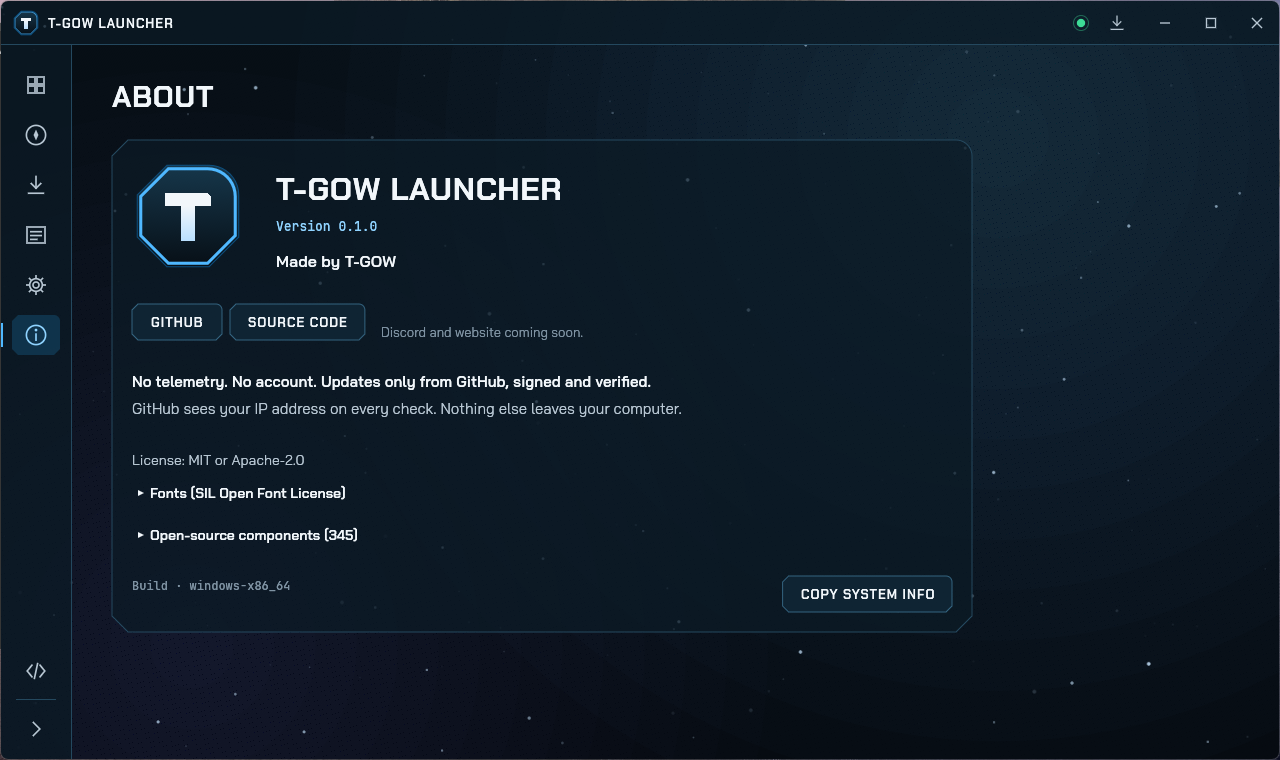
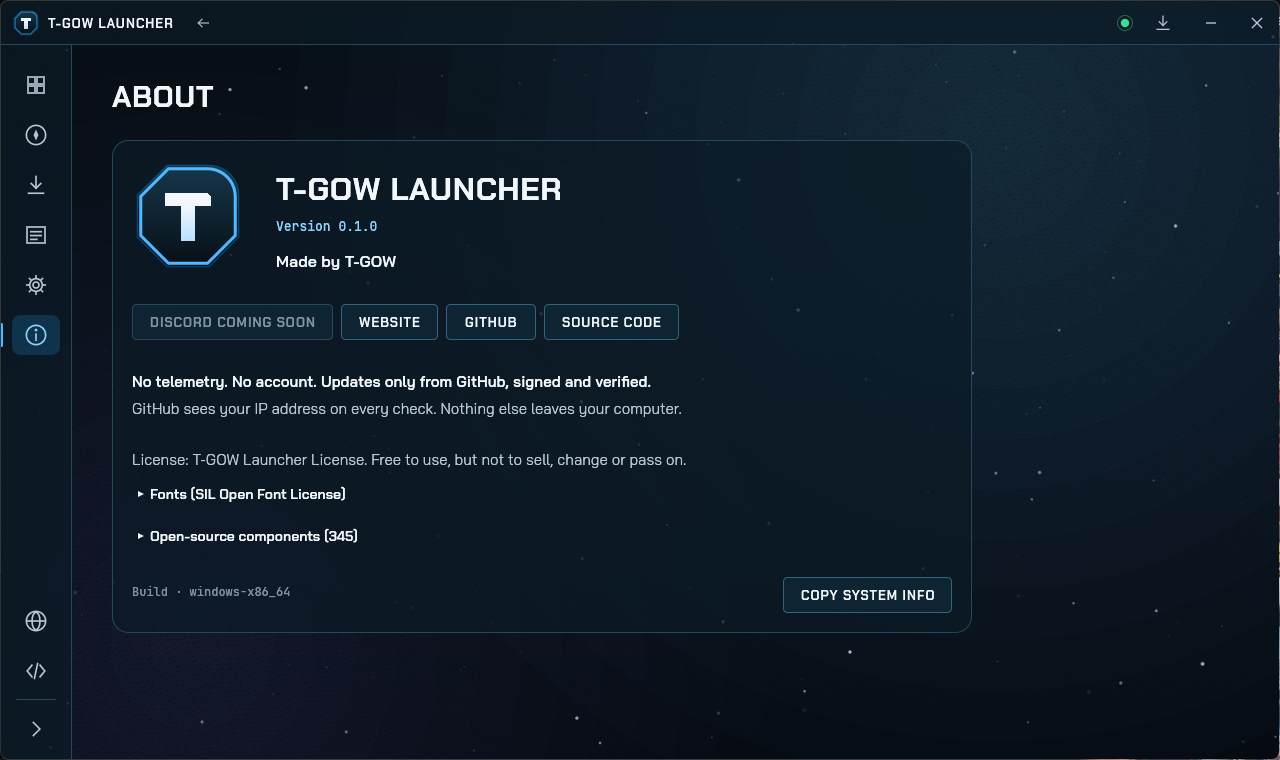
Show the new interface in the readme and the changelog
Fresh screenshots of the library, the loading window, the context menu, the status popup, the app page, the list, the settings, the news and the about page replace the old ones.

diff --git a/README.md b/README.md
@@ -29,7 +29,7 @@
 <br>
 
 <p align="center">
-  <img src="docs/images/tgow-launcher-library.png" alt="T-GOW Launcher library: cards for Ferrovox, marked as installed, and NeoCross, marked as having no signed release, with search, filters for all, installed and updates, sorting and a grid or list switch" width="100%">
+  <img src="docs/images/tgow-launcher-library.png" alt="T-GOW Launcher library: a card for Ferrovox with a screenshot banner, its logo, version 1.0.2 and the state installed, with search, filters for all, installed and updates, sorting and a grid or list switch" width="100%">
   <br>
   <sub>The library with every T-GOW project, its version and its state: installed, update available, signed or not.</sub>
 </p>
@@ -81,22 +81,42 @@ Every screenshot is the real app, captured from a build of this repository.
 <table>
   <tr>
     <td width="50%" valign="top">
-      <img src="docs/images/tgow-launcher-app.png" alt="The Ferrovox page: name, tagline, chips for installed, v1.0.2, Windows x64, Inno Setup and 6.3 MB, Launch and View on GitHub buttons, detected system Windows 11 x64, package details, Show in folder and Uninstall, and the update mode for this app" width="100%">
+      <img src="docs/images/tgow-launcher-app.png" alt="The Ferrovox page: logo and name, the tagline, chips for installed, v1.0.2, Windows x64, Inno Setup and 6.3 MB, a Launch button with a menu next to it, and below the details with the detected system, the package and a screenshot of Ferrovox" width="100%">
       <br>
-      <sub>An app page with the detected system, the chosen package and its update mode.</sub>
+      <sub>An app page with logo, install state, the package picked for your system and a screenshot.</sub>
       <h3>One page per app</h3>
-      Each app gets a page with its tagline, release notes, the package picked for your system and its size. Launch, update, show the folder or uninstall from here.
+      Each app gets a page with its logo, tagline, release notes, the package picked for your system and a screenshot. Launch, update, show the folder or uninstall from here or from the menu next to the main button.
       <br><br>
       Apps that were installed before the launcher existed are found through their uninstall entry, so nothing has to be installed twice.
     </td>
     <td width="50%" valign="top">
-      <img src="docs/images/tgow-launcher-welcome.png" alt="The welcome page with the launcher logo, the text Install the launcher for your user, and the buttons Install and Run without installing" width="100%">
+      <img src="docs/images/tgow-launcher-splash.png" alt="The loading window with the launcher logo, the name T-GOW LAUNCHER, the text Checking for updates and a progress bar" width="100%">
       <br>
-      <sub>First start: install for your user or run it portable.</sub>
-      <h3>Installs without asking for admin</h3>
-      On first start the launcher offers to install itself into your user profile with a Start menu entry and an uninstall entry, or to run as it is.
+      <sub>The loading window checks GitHub before the launcher opens.</sub>
+      <h3>Up to date before it opens</h3>
+      It starts with a small loading window that checks GitHub. A new launcher version is downloaded, verified and installed right there, and the launcher restarts into it.
       <br><br>
-      Apps install the same way: portable builds and archives into versioned folders, Inno Setup, NSIS and MSI silently per user, AppImage, tar.gz and Flatpak on Linux.
+      App updates install on their own in the background as soon as an app is closed.
+    </td>
+  </tr>
+  <tr>
+    <td width="50%" valign="top">
+      <img src="docs/images/tgow-launcher-menu.png" alt="A right click on the Ferrovox card opens a menu with Show details, Launch, Show in folder, View on GitHub and Uninstall" width="100%">
+      <br>
+      <sub>A right click on a card or a list row opens everything you can do with an app.</sub>
+      <h3>Everything one click away</h3>
+      Cards show the screenshot of each app as banner, with logo, name, version and install state always visible. Hovering fades the description in.
+      <br><br>
+      A right click opens details, launch or install, update, the folder, GitHub and uninstall.
+    </td>
+    <td width="50%" valign="top">
+      <img src="docs/images/tgow-launcher-status.png" alt="The status popup under the title bar: GitHub operational, catalog 1 app, T-GOW Launcher v0.1.0 up to date, last checked just now and a Check now button" width="100%">
+      <br>
+      <sub>Status and downloads open as popups right under the title bar.</sub>
+      <h3>Status and downloads at a glance</h3>
+      The status dot shows whether GitHub is reachable, how many apps are in the catalog, whether the launcher is up to date and when it last checked.
+      <br><br>
+      The downloads button shows a badge while something runs and opens ongoing, waiting and finished jobs with progress and cancel.
     </td>
   </tr>
   <tr>
@@ -110,13 +130,13 @@ Every screenshot is the real app, captured from a build of this repository.
       Several downloads run at once while installers run one after another, and an interrupted download picks up where it stopped.
     </td>
     <td width="50%" valign="top">
-      <img src="docs/images/tgow-launcher-list.png" alt="The library as a list: one row per app with icon, name, version, description and state" width="100%">
+      <img src="docs/images/tgow-launcher-list.png" alt="The library as a list: one row per app with logo, name, version, description and install state" width="100%">
       <br>
       <sub>The library as a list, sorted by name or by newest release.</sub>
       <h3>Find things fast</h3>
       Search, filter by installed apps or available updates, sort by name or newest release, and switch between grid and list.
       <br><br>
-      Ctrl+F searches, F5 checks now, Ctrl+J opens downloads and Ctrl+, the settings. Every control has a name and a focus ring for screen readers and the keyboard.
+      Ctrl+F searches, F5 checks now, Ctrl+J opens downloads, Ctrl+, the settings, and Alt+Left or the back button of the mouse goes back. Every control has a name and a focus ring for screen readers and the keyboard.
     </td>
   </tr>
   <tr>
@@ -128,11 +148,11 @@ Every screenshot is the real app, captured from a build of this repository.
       The news page lines up the latest release of every app with its notes, in German or English, depending on your language.
     </td>
     <td width="50%" valign="top">
-      <img src="docs/images/tgow-launcher-about.png" alt="The About page with the logo, version, GitHub and source code buttons, the privacy promise, the license and the lists of fonts and open-source components" width="100%">
+      <img src="docs/images/tgow-launcher-about.png" alt="The About page with the logo, version, a disabled Discord coming soon button, Website, GitHub and Source code buttons, the privacy promise, the license and the lists of fonts and open-source components" width="100%">
       <br>
-      <sub>About: version, privacy promise and every bundled open-source component.</sub>
+      <sub>About: version, links, privacy promise and every bundled open-source component.</sub>
       <h3>Nothing hidden</h3>
-      The About page lists all 345 crates the launcher is built from, with their licenses, and copies your system info for bug reports in one click.
+      The About page links the website and GitHub, lists all crates the launcher is built from with their licenses, and copies your system info for bug reports in one click.
     </td>
   </tr>
 </table>
@@ -144,7 +164,8 @@ Every screenshot is the real app, captured from a build of this repository.
 - **Installing:** per user and without administrator rights; portable builds, ZIP, tar.gz, AppImage, Inno Setup, NSIS, MSI and Flatpak; archives are checked for paths that leave the target folder.
 - **Updates:** automatic by default, per app automatic, notify only or off; the launcher updates itself and rolls back after two failed starts.
 - **Downloads:** several at once, resumable, cancellable, checked against size and SHA-256 before anything runs.
-- **Everyday comfort:** system tray, start with the system, single instance, `tgow://` links that open an app page, German and English, reduced motion.
+- **Interface:** slightly rounded controls, a loading window, popups for status and downloads, context menus, back navigation, animations that can be switched off.
+- **Everyday comfort:** system tray, start with the system, single instance, `tgow://` links that open an app page, German and English.
 
 <br>
 

diff --git a/CHANGELOG.md b/CHANGELOG.md
@@ -15,3 +15,10 @@
 - OpenGL renderer first, wgpu as fallback
 - List of all bundled open-source crates with their licenses
 - T-GOW Launcher License: free to use, not to sell, change or pass on
+- Loading window that checks for updates and installs a launcher update before the main window opens
+- Cards with a screenshot banner, the description on hover and the install state always visible
+- Context menus on cards and list rows, a menu next to the main action on app pages
+- Popups for downloads and status under the title bar
+- Back navigation from the title bar, Alt+Left and the mouse
+- Slightly rounded controls, no maximizing, animations on by default
+- Logo and screenshot of an app from its repository when the release brings none
